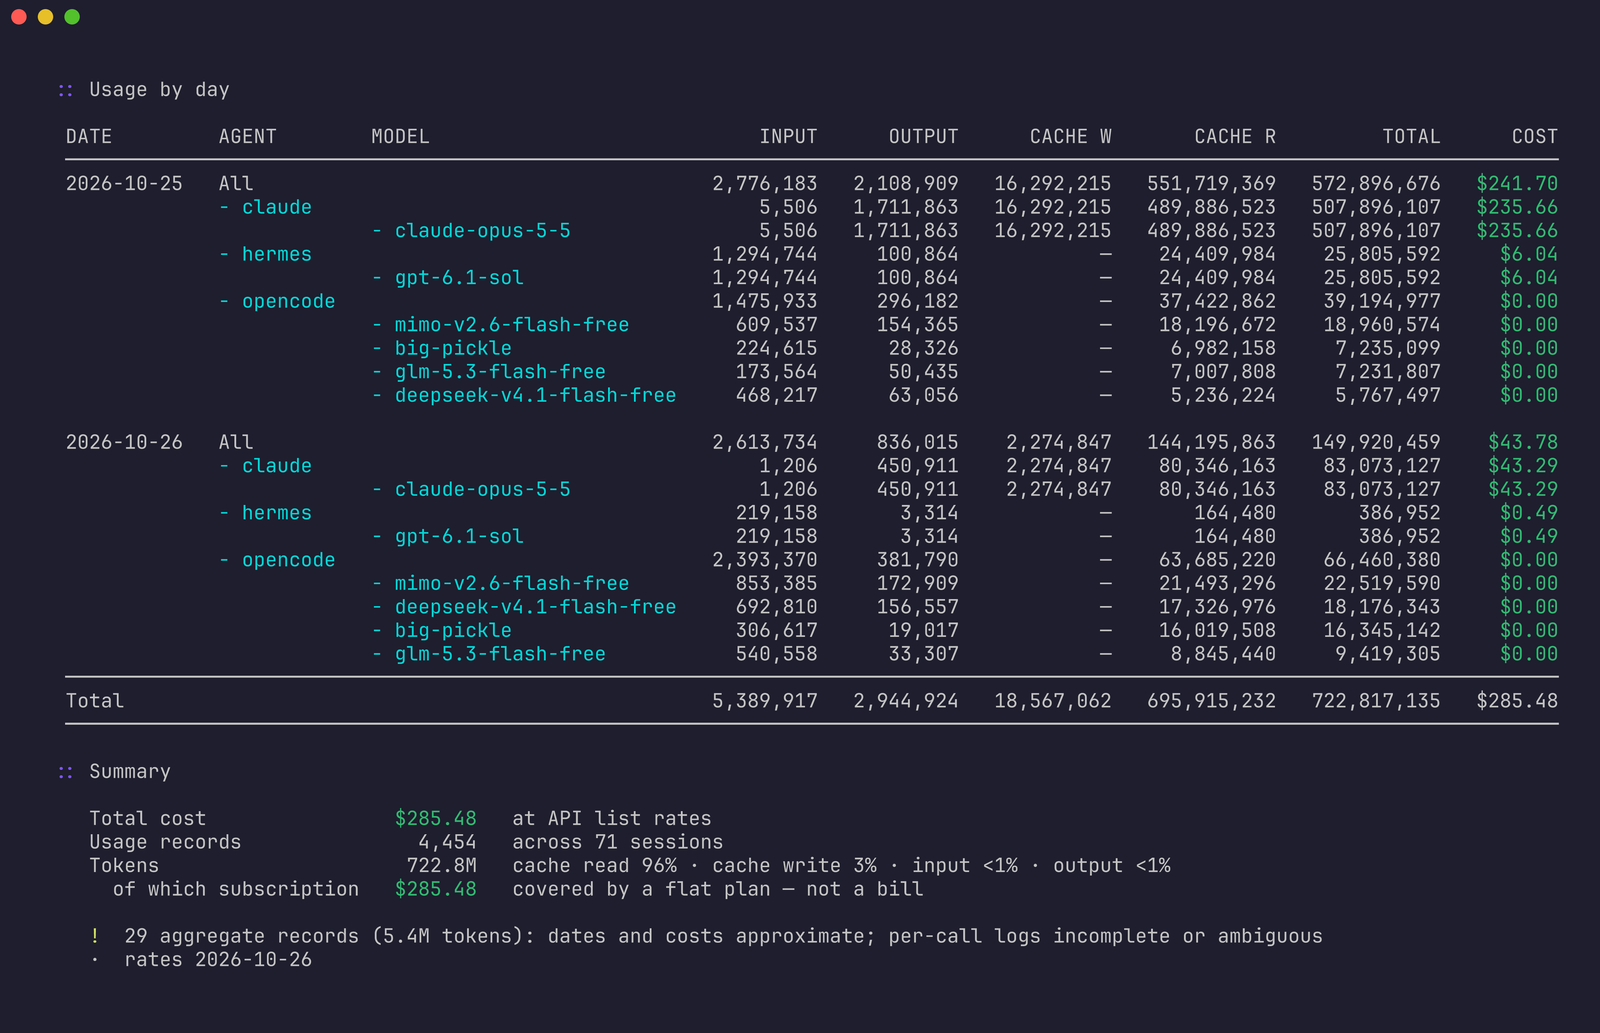
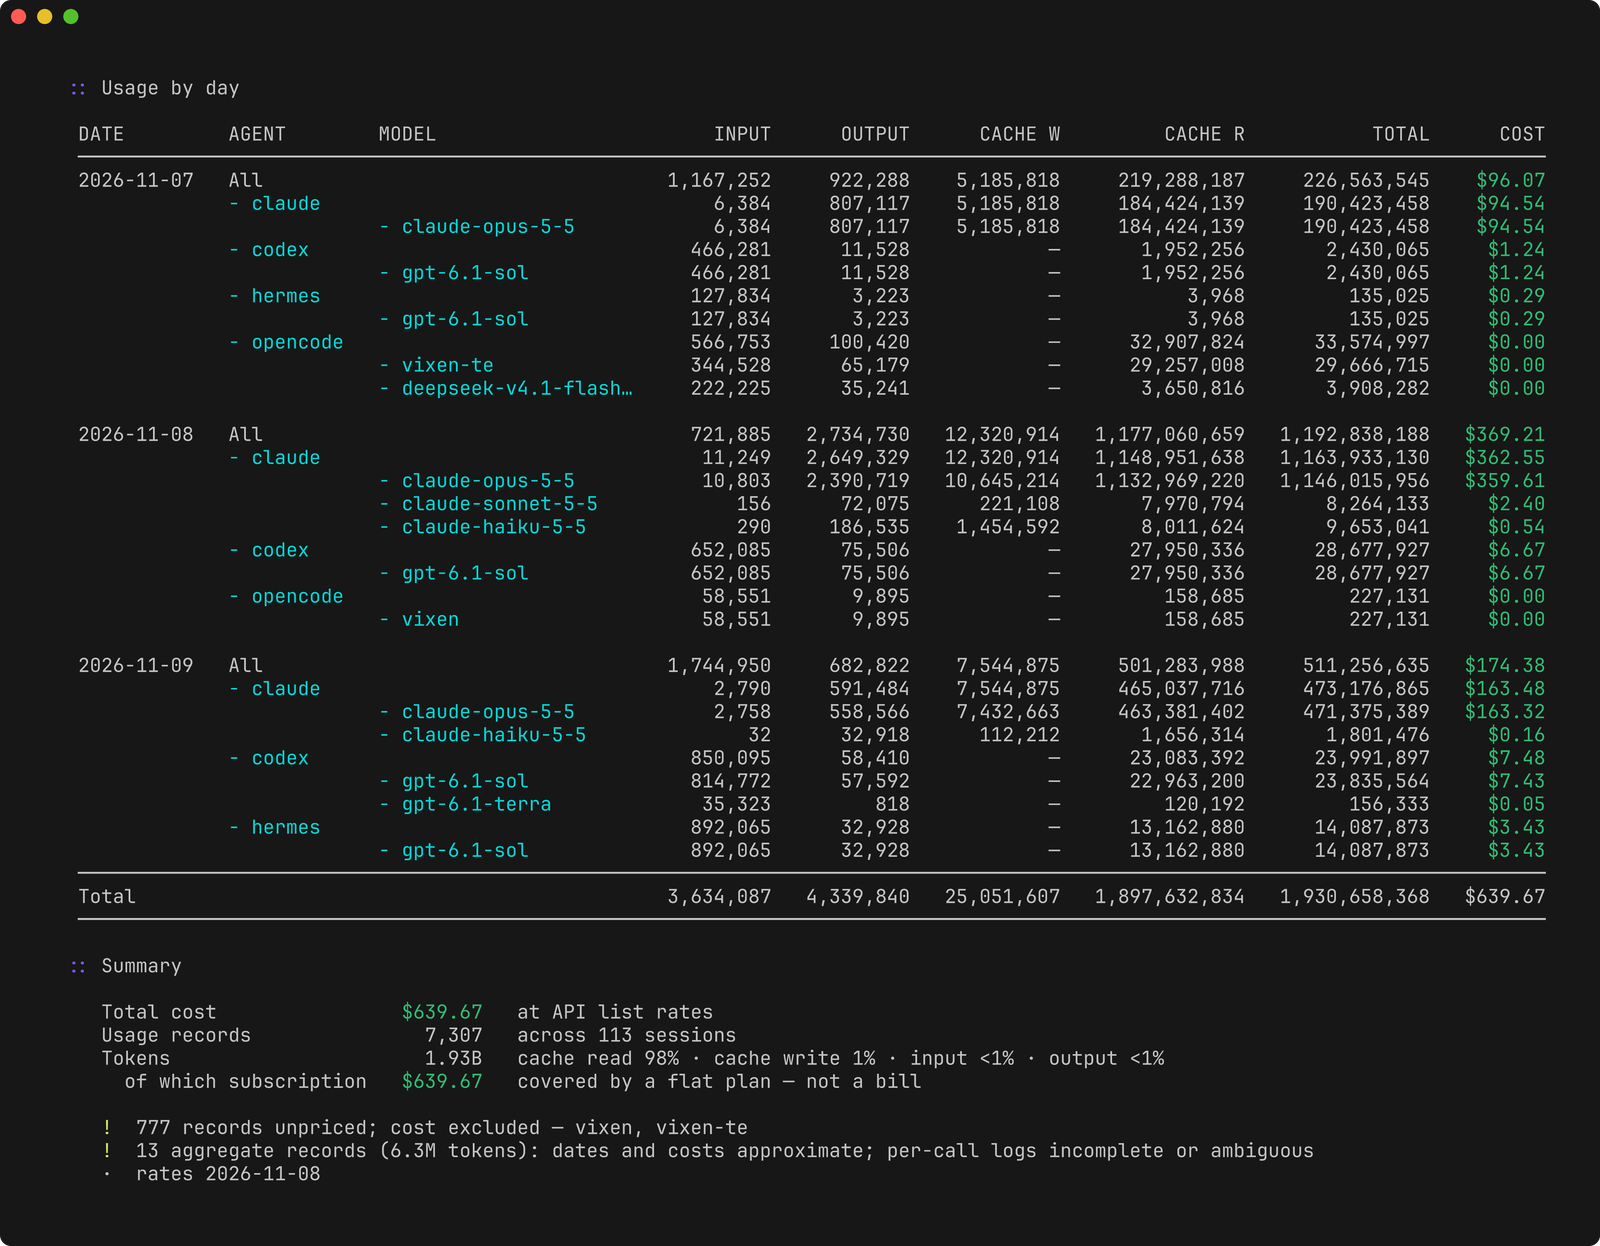
docs: refresh demo and screenshots for dagda
re-recorded from dagda 0.2.0 with home paths and hermes profile names hidden, and dated the 0.2.0 changelog entry

diff --git a/README.md b/README.md
@@ -82,7 +82,7 @@ for updated model prices, which `DAGDA_OFFLINE=1` turns off.
 
 ![summary report](docs/media/summary.png)
 
-`dagda daily --group-by agent,model --since 2026-10-25`:
+`dagda daily --group-by agent,model --since 2026-11-07`:
 
 ![daily report grouped by agent and model](docs/media/daily.png)
 

diff --git a/CHANGELOG.md b/CHANGELOG.md
@@ -1,6 +1,6 @@
 # Changelog
 
-## Unreleased
+## 0.2.0 (2026-11-09)
 
 First Dagda release. Prebuilt `dagda` binaries for Linux, macOS and Windows
 on amd64 and arm64, checked against `checksums.txt`. Go users can run
